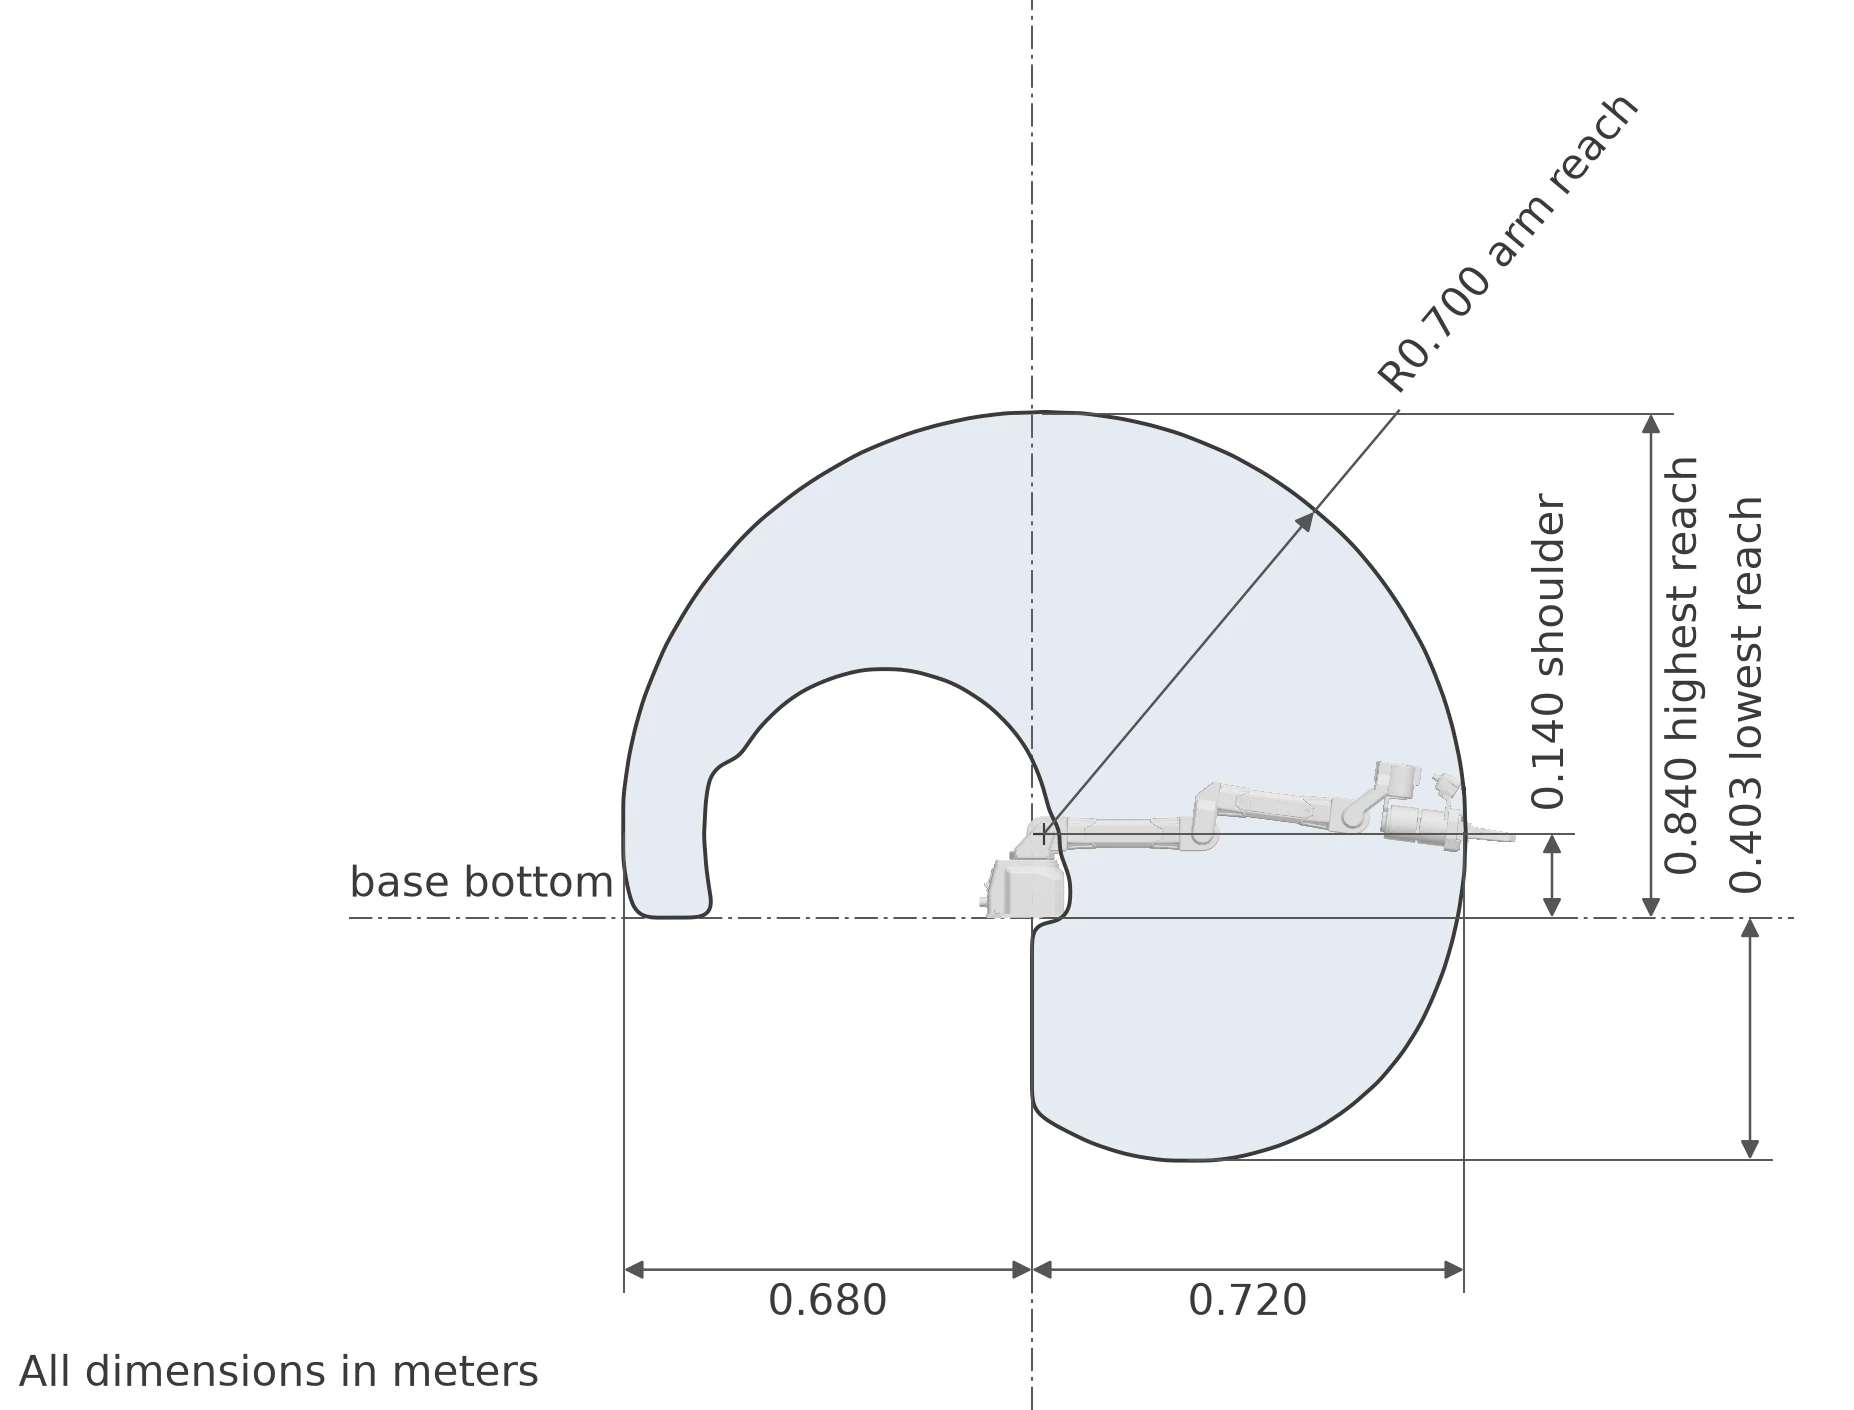
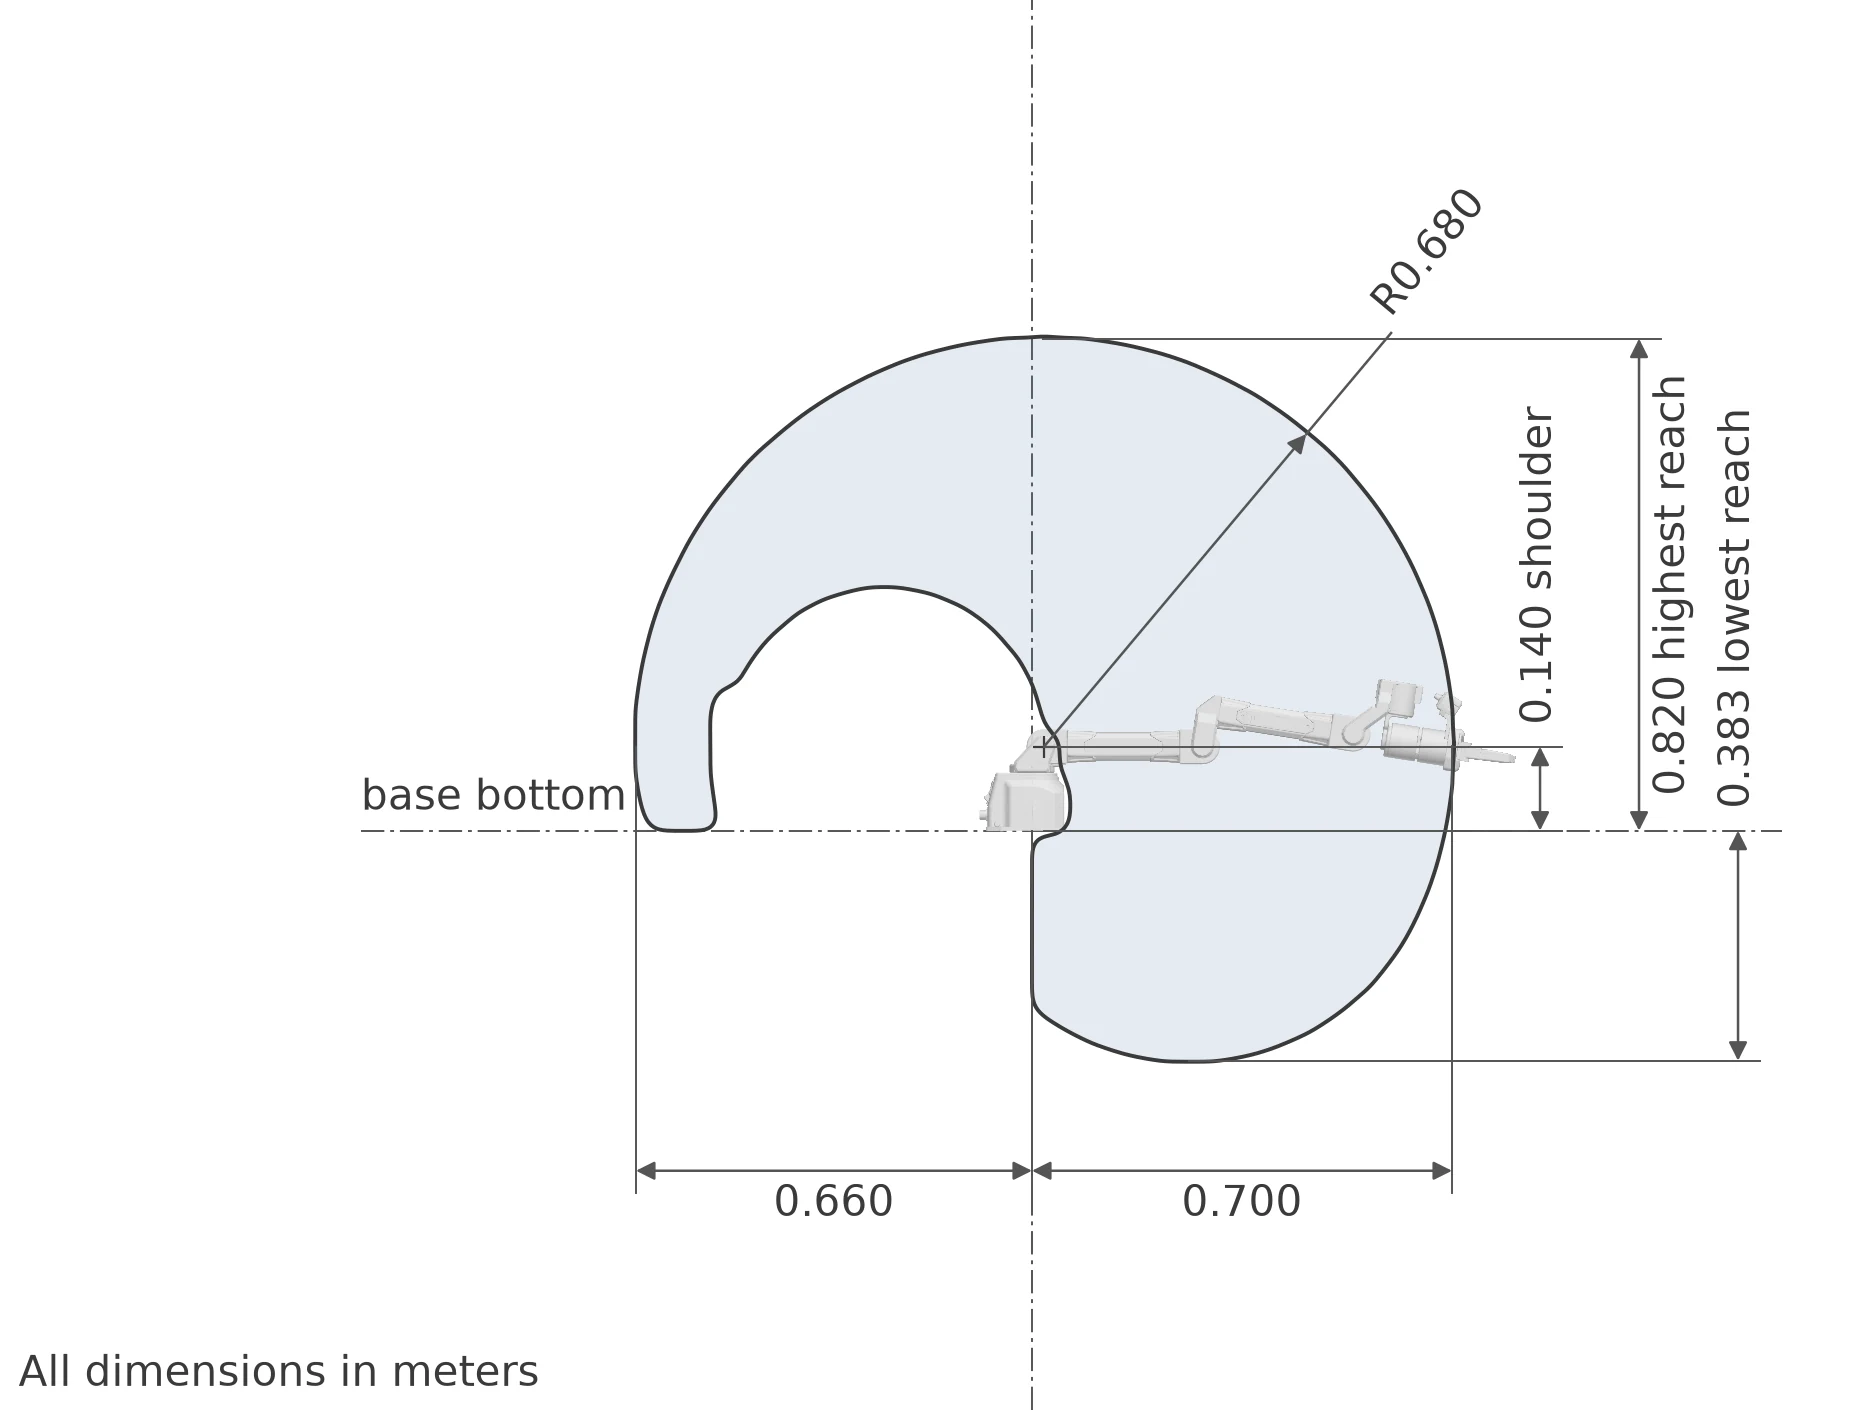
Measure reach from the base rotation axis

diff --git a/docs/specifications/arms.rst b/docs/specifications/arms.rst
@@ -57,7 +57,7 @@ The WidowX Core, Pro, and Heavy use the same joint layout, end effector, and con
     | Communication      | Ethernet                                |
     +--------------------+-------------+-------------+-------------+
 
-Reach is measured from the shoulder (the joint 1 axis) to a point along the gripper.
+Reach is measured horizontally from the base rotation axis (the joint 0 axis) to a point along the gripper.
 
 Glide
 =====

diff --git a/docs/specifications/rivet.rst b/docs/specifications/rivet.rst
@@ -64,7 +64,7 @@ Workspace
 =========
 
 The shaded areas are where a point along each arm's gripper can reach with the base parked, swept over the full lift travel.
-Reach is measured from the shoulder (the joint 1 axis) to that point.
+Reach is measured horizontally from the base rotation axis (the joint 0 axis) to that point.
 All dimensions are in meters.
 
 .. tabs::

diff --git a/docs/specifications/wxheavy.rst b/docs/specifications/wxheavy.rst
@@ -102,7 +102,7 @@ Workspace
 =========
 
 The shaded area is where a point along the gripper can reach.
-Reach is measured from the shoulder (the joint 1 axis) to that point.
+Reach is measured horizontally from the base rotation axis (the joint 0 axis) to that point.
 All dimensions are in meters.
 
 .. figure:: images/wxheavy_workspace_side.webp

diff --git a/docs/specifications/wxcore.rst b/docs/specifications/wxcore.rst
@@ -102,7 +102,7 @@ Workspace
 =========
 
 The shaded area is where a point along the gripper can reach.
-Reach is measured from the shoulder (the joint 1 axis) to that point.
+Reach is measured horizontally from the base rotation axis (the joint 0 axis) to that point.
 All dimensions are in meters.
 
 .. figure:: images/wxcore_workspace_side.webp

diff --git a/docs/specifications/wxpro.rst b/docs/specifications/wxpro.rst
@@ -102,7 +102,7 @@ Workspace
 =========
 
 The shaded area is where a point along the gripper can reach.
-Reach is measured from the shoulder (the joint 1 axis) to that point.
+Reach is measured horizontally from the base rotation axis (the joint 0 axis) to that point.
 All dimensions are in meters.
 
 .. figure:: images/wxpro_workspace_side.webp
